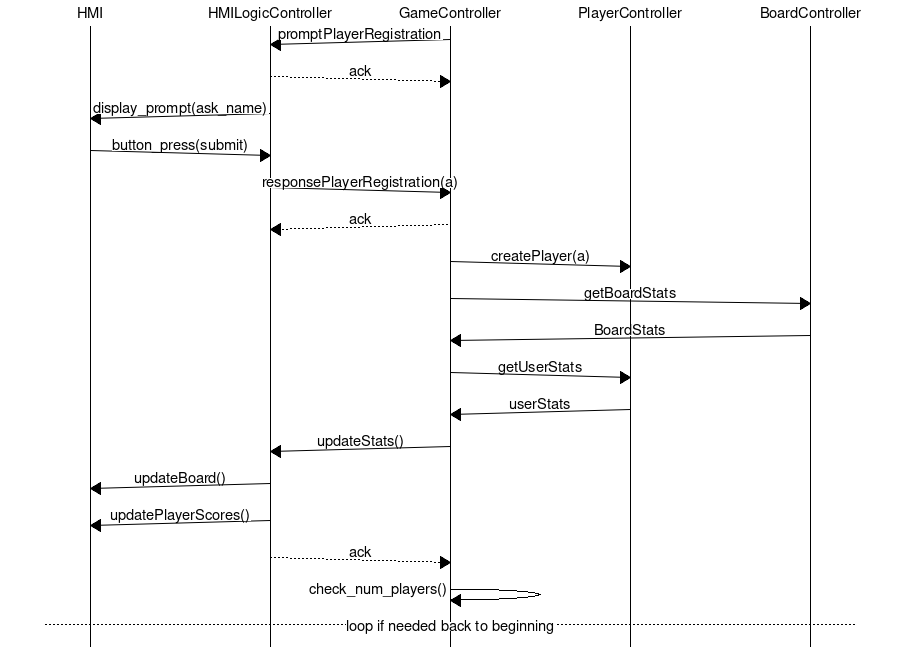
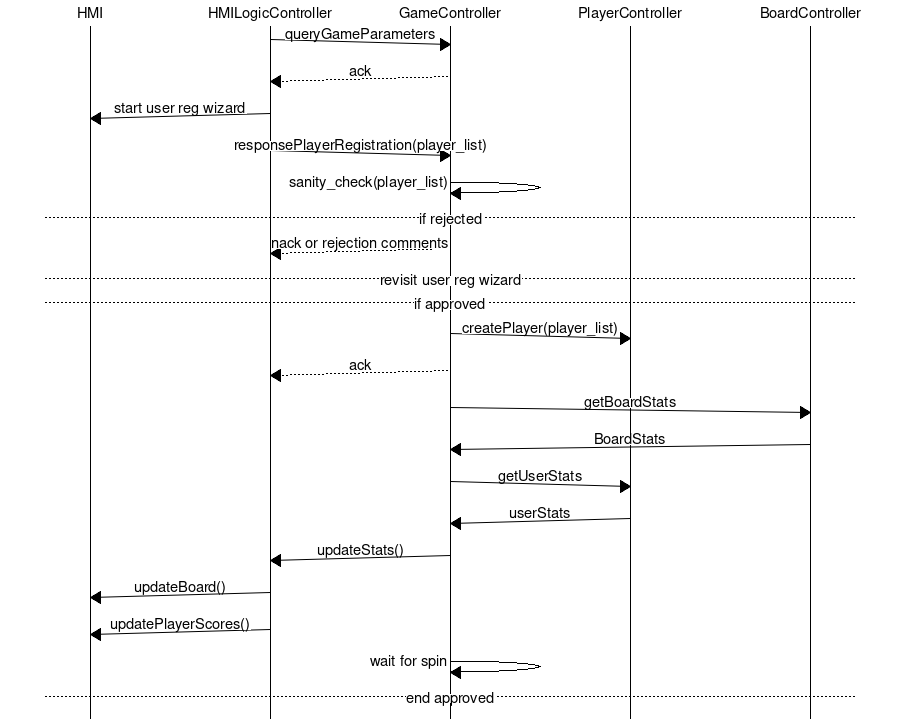
Add framework for "Register User" wizard

diff --git a/hmi.py b/hmi.py
@@ -10,9 +10,10 @@ import random
 import logging
 import logs
 from timeit import default_timer as timer
+import wizard
 
 from PyQt5.QtCore import QThread, pyqtSignal, pyqtSlot, QObject, Qt
-from PyQt5 import QtWidgets, uic, QtGui, QtTest
+from PyQt5 import QtWidgets, uic, QtGui, QtTest, QtWidgets
 from functools import partial
 
 
@@ -109,6 +110,7 @@ class HMILogicController(QObject):
         if "arguments" not in message.keys():
             raise Exception("Message does not possess arguments key")
 
+        #TODO: Break out into function
         perform_ack_at_end = True
         # Proceed with performing actioning a message
         if message['action'] == "promptCategorySelectByUser":
@@ -173,6 +175,7 @@ class HMILogicController(QObject):
         if perform_ack_at_end is True and message['arguments'] != "ACK":
             self.issueAck(message['action'])
 
+        #TODO: Break out into a recv() function
         if message['arguments'] == "ACK":
             if message['action'] == "responseQuestion":
                 local_action = dict()
@@ -193,6 +196,9 @@ class HMILogicController(QObject):
                                         "textbox_answer"]
                 local_action['clear_textbox'] = ["textbox_question", "textbox_answer"]
                 self.signal_lock_unlock.emit(local_action)
+            elif message['action'] == "responseFinishedPlayerRegistration":
+                pass
+
 
     @pyqtSlot()
     def askToSpin(self):
@@ -212,6 +218,7 @@ class HMILogicController(QObject):
         """Ask Player what their name is"""
         # TODO: Prompt Players for their Names at the start of a game
         test_names = ["Aaron", "James", "Glenn", "Lorraine", "Markham"]
+
         r = random.randrange(0, len(test_names))
         return test_names[r]
 
@@ -239,6 +246,13 @@ class HMILogicController(QObject):
     def notifyNeedAnswer(self):
         response = dict()
         response['action'] = "revealAnswer"
+        response['arguments'] = None
+        self.signal_send_message.emit(json.dumps(response))
+
+    @pyqtSlot()
+    def notifyFinishUserReg(self):
+        response = dict()
+        response['action'] = "responseFinishedPlayerRegistration"
         response['arguments'] = None
         self.signal_send_message.emit(json.dumps(response))
 
@@ -332,6 +346,9 @@ class HMI(QtWidgets.QMainWindow, Ui_MainWindow):
         #self.button_reveal.clicked.connect(partial(self.button_reveal.setDisabled, True))
         #self.button_reveal.clicked.connect(partial(self.doSpin.setDisabled, True))
         self.wheel_resting_place = None
+        self.wiz = wizard.MyWizard(ui_file="register_user_wizard.ui", loglevel=self.loglevel)
+        self.wiz.show()
+        self.wiz.exec_()
 
     @pyqtSlot(list)
     def selectCategory(self, categories):
@@ -413,6 +430,7 @@ class HMI(QtWidgets.QMainWindow, Ui_MainWindow):
 
 
         #self.doSpin.setEnabled(True)
+        #TODO: The HMI interface shouldn't directly trigger ACK's
         self.logic_controller.issueAck("spinWheel")
     @pyqtSlot(str, str, str, str)
     def updateGameStats(self, spinsExecuted, maxSpins, currentRound, totalRounds):
@@ -548,6 +566,7 @@ class MyTimer(QObject):
             after = delta.split(".")[1][0]
             new_time = str(before) + "." + str(after)
             self.signal_update_timer.emit(new_time)
+            #TODO: Magic Number
             QtTest.QTest.qWait(50)
 
     def stop(self):

diff --git a/wizard.py b/wizard.py
@@ -1,0 +1,44 @@
+import socket
+import commsettings
+import time
+import messaging
+import queue
+import json
+import random
+import logging
+import logs
+from timeit import default_timer as timer
+
+from PyQt5.QtCore import QThread, pyqtSignal, pyqtSlot, QObject, Qt
+from PyQt5 import QtWidgets, uic, QtGui, QtTest, QtWidgets
+
+from functools import partial
+
+
+# We'll keep this during development as turning this off and ingesting the raw py allows for things like autocomplete
+global IMPORT_UI_ONTHEFLY
+# If this is set to False, ui.py must be manually updated by issuing pyuic5
+IMPORT_UI_ONTHEFLY = True
+# END
+
+if not IMPORT_UI_ONTHEFLY:
+    from ui import Ui_MainWindow
+else:
+    class Ui_MainWindow:
+        pass
+
+class MyWizard(QtWidgets.QWizard, QtWidgets.QMainWindow, Ui_MainWindow):
+
+    def __init__(self, parent = None, ui_file=None, loglevel=logging.INFO):
+        super(MyWizard, self).__init__(parent)
+        if not IMPORT_UI_ONTHEFLY:
+            self.setupUi(self)
+        else:
+            # used for on-the-fly compilation of ui xml
+            if ui_file is None:
+                raise Exception("Did not specify a .ui file")
+            uic.loadUi(ui_file, self)
+
+        self.logger = logs.build_logger(__name__, loglevel)
+        self.loglevel = loglevel
+        self.logger.debug("testtest")
